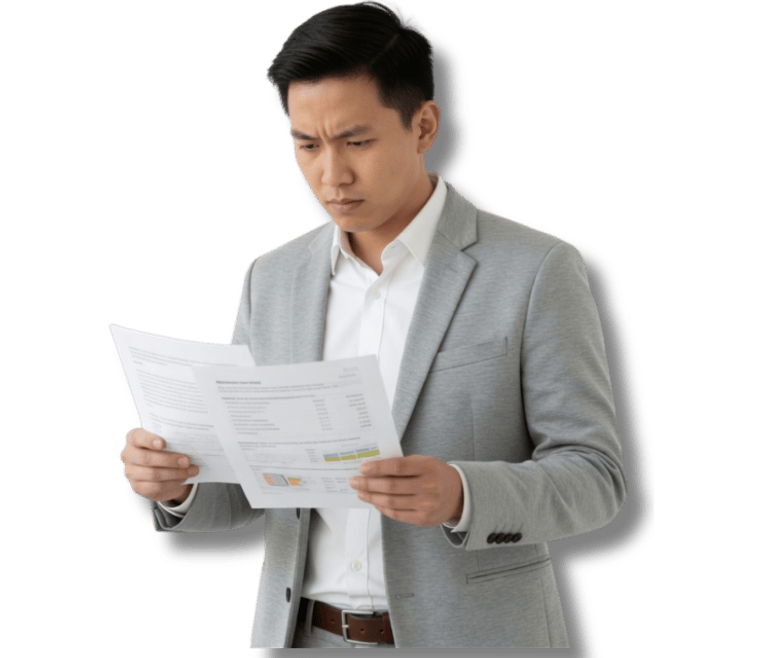
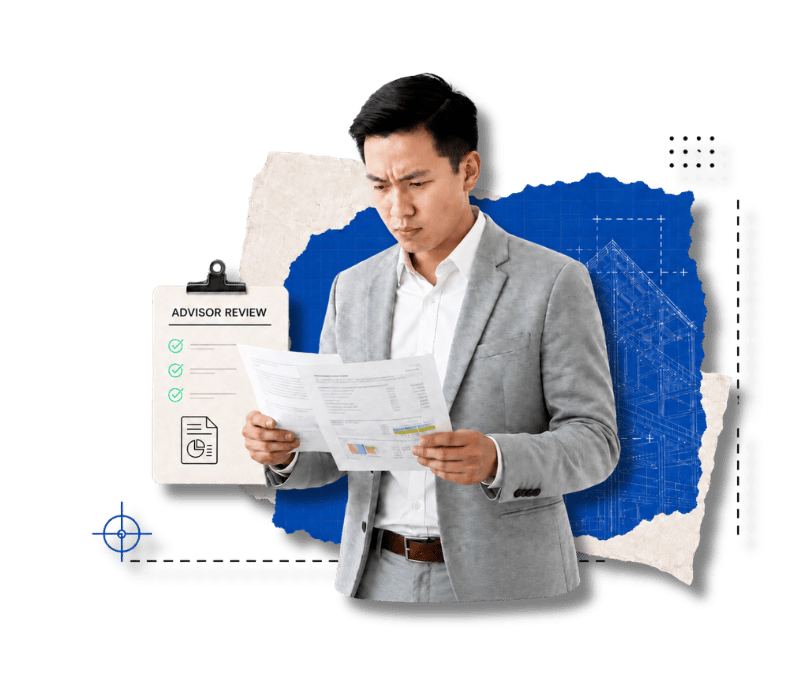
style update

diff --git a/components/sections/Products.tsx b/components/sections/Products.tsx
@@ -153,20 +153,20 @@ const PROGRAMS: Program[] = [
     id: 'inventory-financing',
     icon: 'inventory_2',
     title: 'Inventory Financing',
-    tagline: 'Stock the shelves now. Pay for them as they sell.',
-    body: 'Inventory financing gives businesses the capital to buy stock, raw materials, or seasonal product without draining the bank account to do it. Use it to prepare for a busy season, take advantage of bulk pricing, keep best-sellers in stock, or fund a big purchase order before the revenue catches up.',
+    tagline: 'Stock the shelves without starving the cash flow.',
+    body: 'Inventory financing helps businesses buy the products, materials, or goods they need before those items turn into sales. It can be useful when demand is picking up, busy season is coming, supplier pricing is favorable, or one big order is about to put your cash flow in a headlock.',
     expanded: {
       intro:
-        'The idea is straightforward: get the product in the door, let it sell, and use the proceeds to handle the financing — instead of tying up every dollar of working capital in boxes sitting on a shelf.',
+        'Good inventory planning means having enough product to meet demand without draining the money needed for payroll, rent, vendors, marketing, and all the other bills that remain deeply committed to showing up.',
       bullets: [
-        'Financing secured by the inventory itself',
-        'Helps fund seasonal buildup, bulk orders, and large purchase orders',
-        'Keeps working capital free for payroll, marketing, and operations',
-        'May be available to retailers, wholesalers, distributors, and eCommerce sellers',
-        'Structures built around your sales cycle and inventory turnover',
+        'Funding to purchase inventory, materials, products, or goods for resale',
+        'Can help prepare for busy seasons, large orders, growth periods, or supplier deadlines',
+        'Useful when inventory must be purchased before revenue is collected',
+        'May help preserve cash for payroll, rent, vendors, marketing, and operating expenses',
+        'Structure depends on business strength, inventory type, sales history, and repayment ability',
       ],
       bestFor:
-        'Product-based businesses that need stock on hand before the sales show up. Inventory financing makes sense when demand is real, the product moves, and the only thing standing between you and a bigger season is the cash to fill the warehouse. Because empty shelves have never sold a single thing.',
+        'Retailers, wholesalers, e-commerce brands, manufacturers, seasonal businesses, and other inventory-heavy companies that need to buy before they sell. Inventory financing can help keep shelves stocked without letting one purchase order shove the rest of the business into a broom closet.',
     },
     image: '/program%20cards/inventory%20financing.png',
     imageAlt: 'Inventory Financing',
@@ -329,20 +329,20 @@ const PROGRAMS: Program[] = [
     id: 'project-financing',
     icon: 'foundation',
     title: 'Project Financing',
-    tagline: 'Big projects need capital that can keep up.',
-    body: 'Project financing helps developers, contractors, and business owners fund large-scale projects with a structure built around the project itself — its budget, timeline, milestones, and the way it eventually pays off. Use it for development deals, large construction projects, energy and infrastructure work, or major business initiatives that need more than a standard loan can carry.',
+    tagline: 'Big project. Big moving parts. Better have the money lined up.',
+    body: 'Project financing helps cover the upfront costs tied to a specific job, contract, buildout, expansion, or revenue-producing project. Use it for materials, labor, deposits, equipment, vendor costs, mobilization, production, or the expensive little details that tend to show up before the revenue does.',
     expanded: {
       intro:
-        'The financing is built around the project, not just the borrower. That means structure, draw schedules, and repayment that actually line up with how the work gets done and when the money comes in.',
+        'The right structure helps match the funding to the project timeline, so a good opportunity does not turn into a cash flow migraine with paperwork.',
       bullets: [
-        'Built for large-scale development, construction, and infrastructure projects',
-        'Financing structured around project budget, milestones, and timeline',
-        'Draw schedules aligned with project phases',
-        'Capital stack solutions, including senior debt, mezzanine, and equity options',
-        'Advisor support to structure the deal and match the right lending partners',
+        'Funding for specific projects, contracts, or business opportunities',
+        'Can help cover upfront costs before revenue is collected',
+        'Useful for buildouts, expansion, materials, labor, production, or project-based growth',
+        'Structure depends on project size, timeline, revenue potential, and business strength',
+        'May help preserve working capital while the project is underway',
       ],
       bestFor:
-        'Developers and business owners taking on projects too large or too complex for a one-size-fits-all loan. Project financing makes sense when the deal has real scale, a clear plan, and a payoff that depends on the project actually getting built — which is exactly why the financing has to be built around it, not bolted on after.',
+        'Businesses with a real project on the table and a clear path to revenue. Project financing can make sense when the opportunity is solid, but the upfront costs would put too much pressure on cash flow. Because “we’ll figure it out as we go” is not a funding strategy. It is a dare.',
     },
     image: '/program%20cards/Project%20Financing.png',
     imageAlt: 'Project Financing',
@@ -569,10 +569,10 @@ export default function Products() {
           viewport={{ once: true, amount: 0.5 }}
           transition={{ duration: 0.7, ease: [0.22, 1, 0.36, 1] }}
         >
-          <p className="font-label text-xs font-bold uppercase tracking-[0.2em] text-primary mb-4">
+          <p className="font-label text-sm font-bold uppercase tracking-[0.2em] text-primary mb-4">
             Financial Solutions
           </p>
-          <h2 className="font-headline text-4xl sm:text-5xl md:text-6xl font-extrabold tracking-tight text-on-secondary-fixed mb-6 max-w-5xl">
+          <h2 className="font-headline text-5xl sm:text-6xl md:text-7xl font-extrabold tracking-tight text-on-secondary-fixed mb-6 max-w-5xl">
             Different Needs Require Different Funding.{' '}
             <motion.span
               className="text-primary inline-block origin-bottom-left"
@@ -603,9 +603,9 @@ export default function Products() {
               (Shocking, We Know.)
             </motion.span>
           </h2>
-          <p className="text-on-surface-variant text-sm md:text-base leading-relaxed flex flex-wrap items-center gap-x-6 gap-y-2">
+          <p className="text-on-surface-variant text-base md:text-lg leading-relaxed flex flex-wrap items-center gap-x-6 gap-y-2">
             <span className="inline-flex items-center gap-2">
-              <Icon name="open_with" className="text-primary text-base" />
+              <Icon name="open_with" className="text-primary text-lg" />
               <span className="md:hidden">Swipe to spin.</span>
               <span className="hidden md:inline">Drag to spin.</span>
             </span>
@@ -613,7 +613,7 @@ export default function Products() {
               |
             </span>
             <span className="inline-flex items-center gap-2">
-              <Icon name="touch_app" className="text-primary text-base" />
+              <Icon name="touch_app" className="text-primary text-lg" />
               Tap any program to see how it works, what it&rsquo;s for, and who
               it fits.
             </span>

diff --git a/components/ui/Stepper.tsx b/components/ui/Stepper.tsx
@@ -131,6 +131,7 @@ export default function Stepper({
           currentStep={currentStep}
           direction={direction}
           className={`pt-2 ${contentClassName}`}
+          steps={stepsArray}
         >
           {stepsArray[currentStep - 1]}
         </StepContentWrapper>
@@ -174,6 +175,7 @@ interface StepContentWrapperProps {
   direction: number;
   children: ReactNode;
   className?: string;
+  steps: ReactNode[];
 }
 
 function StepContentWrapper({
@@ -182,23 +184,56 @@ function StepContentWrapper({
   direction,
   children,
   className = '',
+  steps,
 }: StepContentWrapperProps) {
-  const [parentHeight, setParentHeight] = useState<number>(0);
+  // Lock the card to the tallest step so it doesn't grow/shrink between steps.
+  // A hidden layer renders every step stacked; we track the max measured height
+  // and re-measure on resize so the lock stays correct as text rewraps.
+  const [maxHeight, setMaxHeight] = useState<number>(0);
+  const measureRef = useRef<HTMLDivElement | null>(null);
+
+  useLayoutEffect(() => {
+    const root = measureRef.current;
+    if (!root) return;
+    const measure = () => {
+      let tallest = 0;
+      root
+        .querySelectorAll<HTMLElement>('[data-step-measure]')
+        .forEach((el) => {
+          tallest = Math.max(tallest, el.offsetHeight);
+        });
+      setMaxHeight(tallest);
+    };
+    measure();
+    const ro = new ResizeObserver(measure);
+    root
+      .querySelectorAll<HTMLElement>('[data-step-measure]')
+      .forEach((el) => ro.observe(el));
+    return () => ro.disconnect();
+  }, [steps]);
 
   return (
     <motion.div
       style={{ position: 'relative', overflow: 'hidden' }}
-      animate={{ height: isCompleted ? 0 : parentHeight }}
+      animate={{ height: isCompleted ? 0 : maxHeight }}
       transition={{ type: 'spring', duration: 0.4 }}
       className={className}
     >
+      <div
+        ref={measureRef}
+        aria-hidden
+        className="pointer-events-none invisible absolute inset-x-0 top-0"
+      >
+        {steps.map((step, i) => (
+          <div key={i} data-step-measure className="absolute inset-x-0 top-0">
+            {step}
+          </div>
+        ))}
+      </div>
+
       <AnimatePresence initial={false} mode="sync" custom={direction}>
         {!isCompleted && (
-          <SlideTransition
-            key={currentStep}
-            direction={direction}
-            onHeightReady={(h) => setParentHeight(h)}
-          >
+          <SlideTransition key={currentStep} direction={direction}>
             {children}
           </SlideTransition>
         )}
@@ -210,25 +245,11 @@ function StepContentWrapper({
 interface SlideTransitionProps {
   children: ReactNode;
   direction: number;
-  onHeightReady: (height: number) => void;
 }
 
-function SlideTransition({
-  children,
-  direction,
-  onHeightReady,
-}: SlideTransitionProps) {
-  const containerRef = useRef<HTMLDivElement | null>(null);
-
-  useLayoutEffect(() => {
-    if (containerRef.current) {
-      onHeightReady(containerRef.current.offsetHeight);
-    }
-  }, [children, onHeightReady]);
-
+function SlideTransition({ children, direction }: SlideTransitionProps) {
   return (
     <motion.div
-      ref={containerRef}
       custom={direction}
       variants={stepVariants}
       initial="enter"

diff --git a/components/sections/CTA.tsx b/components/sections/CTA.tsx
@@ -1,7 +1,33 @@
 'use client';
 
-import { motion } from 'framer-motion';
+import { motion, Variants } from 'framer-motion';
 import { ROUTES, SITE } from '@/lib/site';
+
+const containerVariants: Variants = {
+  hidden: {},
+  visible: {
+    transition: { staggerChildren: 0.14, delayChildren: 0.05 },
+  },
+};
+
+const fadeUp: Variants = {
+  hidden: { opacity: 0, y: 28 },
+  visible: {
+    opacity: 1,
+    y: 0,
+    transition: { duration: 0.7, ease: [0.22, 1, 0.36, 1] },
+  },
+};
+
+const titleVariant: Variants = {
+  hidden: { opacity: 0, y: 36, scale: 0.97 },
+  visible: {
+    opacity: 1,
+    y: 0,
+    scale: 1,
+    transition: { duration: 0.8, ease: [0.22, 1, 0.36, 1] },
+  },
+};
 
 export default function CTA() {
   return (
@@ -20,24 +46,36 @@ export default function CTA() {
       />
       <motion.div
         className="max-w-4xl mx-auto text-center relative"
-        initial={{ opacity: 0, y: 32 }}
-        whileInView={{ opacity: 1, y: 0 }}
+        variants={containerVariants}
+        initial="hidden"
+        whileInView="visible"
         viewport={{ once: true, amount: 0.4 }}
-        transition={{ duration: 0.8, ease: [0.22, 1, 0.36, 1] }}
       >
-        <h2 className="font-headline text-4xl sm:text-5xl md:text-6xl font-extrabold text-white mb-6 sm:mb-8 tracking-tighter">
+        <motion.h2
+          variants={titleVariant}
+          className="font-headline text-4xl sm:text-5xl lg:whitespace-nowrap lg:text-[clamp(2.5rem,4vw,3.75rem)] font-extrabold text-white mb-6 sm:mb-8 tracking-tighter"
+        >
           Not sure what kind of funding you need?
-        </h2>
-        <p className="text-lg sm:text-xl md:text-2xl text-white font-semibold mb-4 sm:mb-6 leading-relaxed">
+        </motion.h2>
+        <motion.p
+          variants={fadeUp}
+          className="text-xl sm:text-2xl md:text-3xl text-white font-semibold mb-4 sm:mb-6 leading-relaxed"
+        >
           Good. That means you probably haven&rsquo;t been sold the wrong thing
           yet.
-        </p>
-        <p className="text-base sm:text-lg text-white mb-10 sm:mb-12 leading-relaxed max-w-3xl mx-auto">
+        </motion.p>
+        <motion.p
+          variants={fadeUp}
+          className="text-lg sm:text-xl md:text-2xl text-white mb-10 sm:mb-12 leading-relaxed max-w-3xl mx-auto"
+        >
           Tell us what you need the money to do. Buy equipment? Cover cash flow?
           Refinance debt? Fund a project? Move on a property? Whatever it is,
           we&rsquo;ll help match the need to the right solution.
-        </p>
-        <div className="flex flex-col sm:flex-row justify-center gap-4 sm:gap-6">
+        </motion.p>
+        <motion.div
+          variants={fadeUp}
+          className="flex flex-col sm:flex-row justify-center gap-4 sm:gap-6"
+        >
           <motion.a
             href={ROUTES.apply}
             className="bg-on-secondary-fixed text-primary-fixed px-8 sm:px-12 py-4 sm:py-6 rounded-lg font-bold text-base sm:text-xl inline-block"
@@ -62,7 +100,7 @@ export default function CTA() {
           >
             Talk to an Advisor: {SITE.phone}
           </motion.a>
-        </div>
+        </motion.div>
       </motion.div>
     </section>
   );

diff --git a/components/sections/TrustMetrics.tsx b/components/sections/TrustMetrics.tsx
@@ -41,16 +41,22 @@ const STATS: Stat[] = [
 
 export default function TrustMetrics() {
   return (
-    <section className="bg-on-secondary-fixed py-16 sm:py-24 px-6 sm:px-8 text-white relative overflow-hidden">
+    <section
+      className="py-16 sm:py-24 px-6 sm:px-8 text-white relative overflow-hidden"
+      style={{
+        background:
+          'linear-gradient(135deg, #15402e 0%, #1f6b4e 50%, #2c9168 100%)',
+      }}
+    >
       <motion.div
         aria-hidden
-        className="absolute -top-40 -left-40 w-[28rem] h-[28rem] rounded-full bg-primary/20 blur-3xl"
+        className="absolute -top-40 -left-40 w-[28rem] h-[28rem] rounded-full bg-white/10 blur-3xl"
         animate={{ x: [0, 60, 0], y: [0, 30, 0] }}
         transition={{ duration: 14, repeat: Infinity, ease: 'easeInOut' }}
       />
       <motion.div
         aria-hidden
-        className="absolute -bottom-40 -right-40 w-[24rem] h-[24rem] rounded-full bg-primary-container/20 blur-3xl"
+        className="absolute -bottom-40 -right-40 w-[24rem] h-[24rem] rounded-full bg-primary-fixed/15 blur-3xl"
         animate={{ x: [0, -50, 0], y: [0, -40, 0] }}
         transition={{ duration: 18, repeat: Infinity, ease: 'easeInOut' }}
       />
@@ -76,7 +82,7 @@ export default function TrustMetrics() {
                   suffix={stat.suffix}
                   duration={2.4}
                   delay={0.3 + i * 0.18}
-                  className="block text-5xl sm:text-6xl md:text-7xl font-black text-primary-container tabular-nums tracking-tight"
+                  className="block text-5xl sm:text-6xl md:text-7xl font-black text-primary-fixed tabular-nums tracking-tight"
                 />
                 {stat.sticker && (
                   <motion.span
@@ -95,11 +101,11 @@ export default function TrustMetrics() {
                   </motion.span>
                 )}
               </div>
-              <p className="font-label text-sm sm:text-base font-semibold uppercase tracking-wider leading-snug text-slate-300 max-w-[22ch] mx-auto">
+              <p className="font-label text-sm sm:text-base font-semibold uppercase tracking-wider leading-snug text-white/90 max-w-[22ch] mx-auto">
                 {stat.label}
               </p>
               {stat.fineprint && (
-                <p className="font-label text-sm sm:text-base font-semibold uppercase tracking-wider leading-snug text-slate-300 max-w-[22ch] mx-auto mt-2">
+                <p className="font-label text-sm sm:text-base font-semibold uppercase tracking-wider leading-snug text-white/90 whitespace-nowrap mt-2">
                   {stat.fineprint}
                 </p>
               )}

diff --git a/components/sections/Hero.tsx b/components/sections/Hero.tsx
@@ -363,7 +363,7 @@ export default function Hero() {
                   animate={{ opacity: 1, y: 0, scale: 1 }}
                   exit={{ opacity: 0, y: -8, scale: 0.94 }}
                   transition={{ duration: 0.45, ease: [0.22, 1, 0.36, 1] }}
-                  className="absolute z-20 bg-surface-container-lowest px-3.5 py-2 rounded-xl shadow-[0_12px_24px_-8px_rgba(0,3,33,0.25)] border border-outline-variant/15"
+                  className="absolute z-20 bg-surface-container-lowest px-3.5 py-2 rounded-xl shadow-[0_0_0_1px_rgba(32,37,54,0.05),0_0_18px_-4px_rgba(32,37,54,0.12),0_16px_32px_-10px_rgba(32,37,54,0.30)] border border-outline-variant/25"
                 >
                   <p className="font-headline text-xl font-black text-on-surface tracking-tight tabular-nums leading-none">
                     {
@@ -417,7 +417,7 @@ export default function Hero() {
                 exit={{ opacity: 0, y: -16, rotate: 2, scale: 0.94 }}
                 transition={{ duration: 0.5, ease: [0.22, 1, 0.36, 1] }}
                 whileHover={{ rotate: 0, y: -4 }}
-                className="absolute z-20 w-60 bg-surface-container-lowest p-5 rounded-xl shadow-[0_40px_60px_-15px_rgba(0,3,33,0.18)] border border-outline-variant/15"
+                className="absolute z-20 w-60 bg-surface-container-lowest p-5 rounded-xl shadow-[0_0_0_1px_rgba(32,37,54,0.05),0_0_24px_-4px_rgba(32,37,54,0.12),0_28px_50px_-12px_rgba(32,37,54,0.30)] border border-outline-variant/25"
               >
                 {renderHeroCard(heroIndex % CARD_POSITIONS.length)}
               </motion.div>

diff --git a/components/sections/Navbar.tsx b/components/sections/Navbar.tsx
@@ -25,6 +25,8 @@ const NAV_LINKS: NavLink[] = [
       { id: 'sba-commercial-real-estate', label: 'SBA Commercial Real Estate' },
       { id: 'sba-business-acquisition', label: 'SBA Business Acquisition' },
       { id: 'sba-startup', label: 'SBA Startup Loans' },
+      { id: 'project-financing', label: 'Project Financing' },
+      { id: 'inventory-financing', label: 'Inventory Financing' },
     ],
   },
   {
